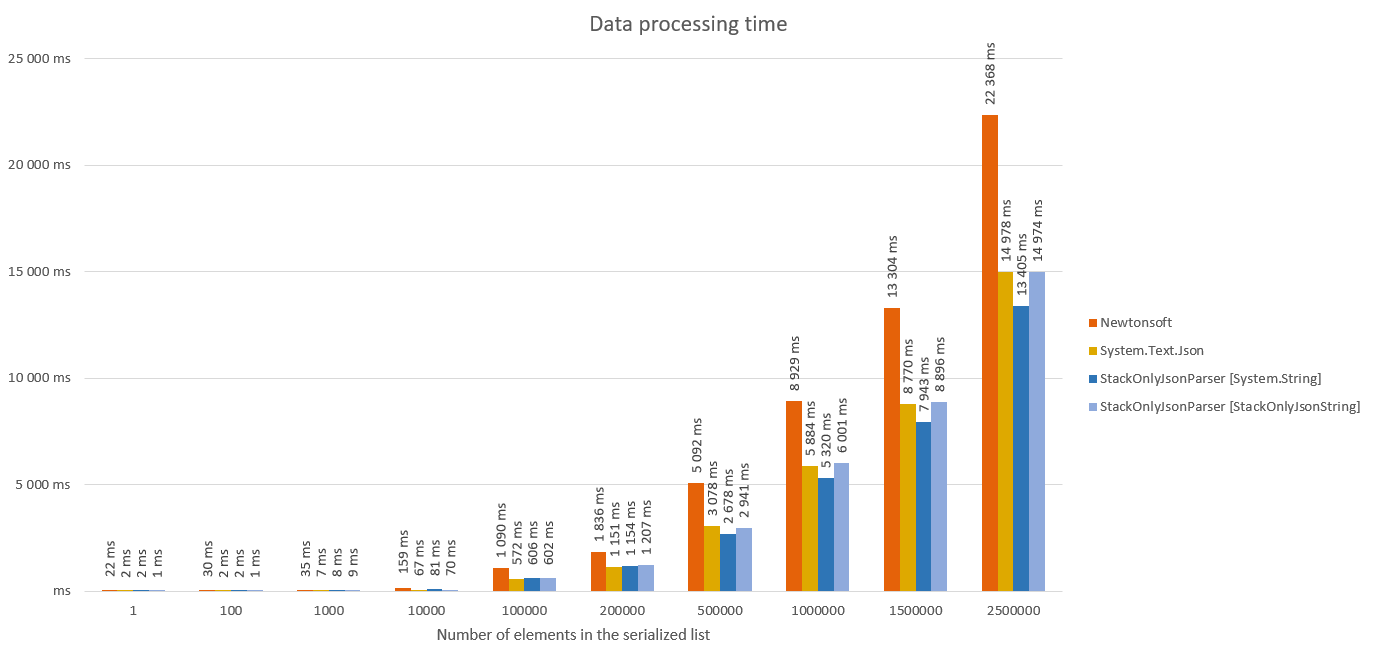
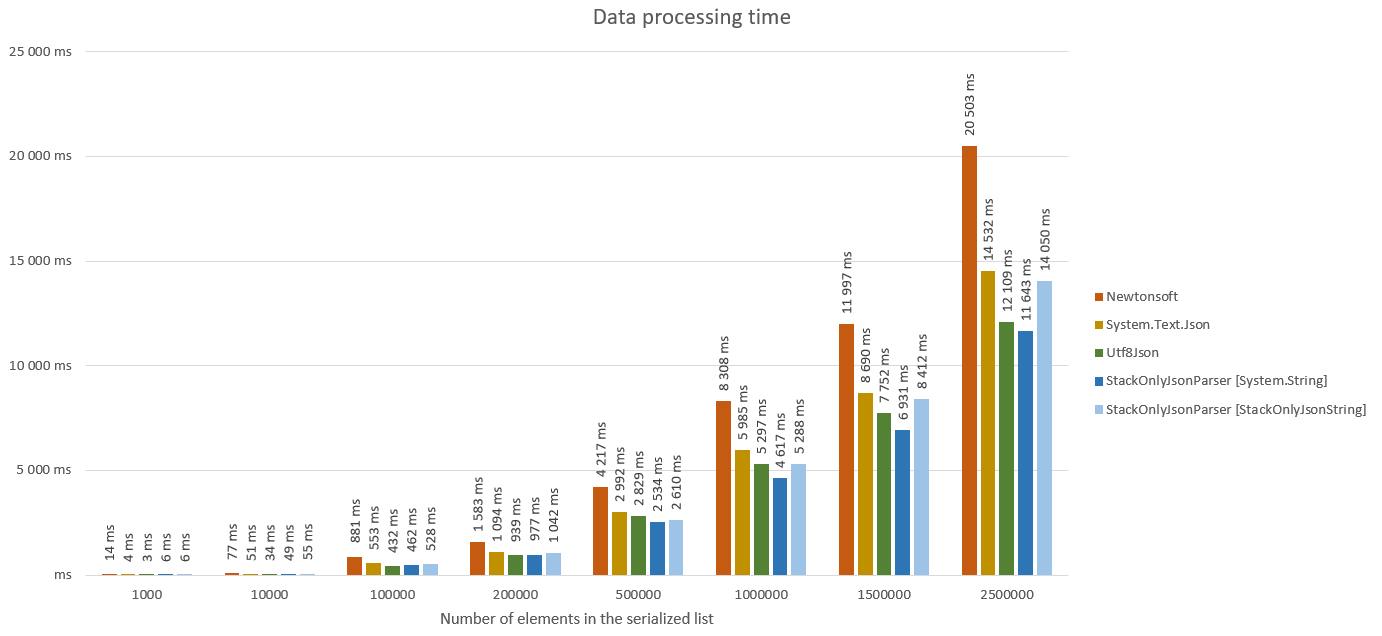
Updating performance test results.

diff --git a/StackOnlyJsonParser.PerformanceTests/Program.cs b/StackOnlyJsonParser.PerformanceTests/Program.cs
@@ -19,7 +19,7 @@ namespace StackOnlyJsonParser.PerformanceTests
 			var data = dataGenerator.Generate(int.Parse(args[1]));
 			var stringData = Encoding.UTF8.GetString(data);
 
-			for (int i = 0; i < 5; i++)
+			for (int i = 0; i < 21; i++)
 			{
 				GC.Collect();
 				var allocatedBytes = GC.GetAllocatedBytesForCurrentThread();
@@ -35,6 +35,9 @@ namespace StackOnlyJsonParser.PerformanceTests
 					case "System.Text.Json":
 						TestHeap2(data);
 						break;
+					case "Utf8Json":
+						TestHeap3(data);
+						break;
 					case "Stack":
 						TestStack(data);
 						break;
@@ -46,7 +49,8 @@ namespace StackOnlyJsonParser.PerformanceTests
 				allocatedBytes = GC.GetAllocatedBytesForCurrentThread() - allocatedBytes;
 				usedBytes = GC.GetTotalMemory(false) - usedBytes;
 
-				Console.WriteLine($"{price}\t{args[0]}\t{args[1]}\t{stopwatch.ElapsedMilliseconds}\t{allocatedBytes}\t{usedBytes}");
+				if (i > 0)
+					Console.WriteLine($"{price}\t{args[0]}\t{args[1]}\t{stopwatch.ElapsedMilliseconds}\t{allocatedBytes}\t{usedBytes}");
 			}
 		}
 
@@ -69,6 +73,21 @@ namespace StackOnlyJsonParser.PerformanceTests
 		{
 			stopwatch.Restart();
 			var products = JsonSerializer.Deserialize<List<HeapProduct>>(data);
+
+			foreach (var product in products)
+				foreach (var color in product.Colors)
+					if (color == "red")
+						foreach (var region in product.Regions)
+							if (region.Key == "PL")
+								price += product.AvailableItems * region.Value.Value;
+
+			stopwatch.Stop();
+		}
+
+		static void TestHeap3(byte[] data)
+		{
+			stopwatch.Restart();
+			var products = Utf8Json.JsonSerializer.Deserialize<List<HeapProduct>>(data);
 
 			foreach (var product in products)
 				foreach (var color in product.Colors)

diff --git a/StackOnlyJsonParser.PerformanceTests/Model/HeapProduct.cs b/StackOnlyJsonParser.PerformanceTests/Model/HeapProduct.cs
@@ -3,7 +3,7 @@ using System.Collections.Generic;
 
 namespace StackOnlyJsonParser.PerformanceTests.Model
 {
-	internal class HeapProduct
+	public class HeapProduct
 	{
 		public string Name { get; set; }
 		public DateTime ProductionDate { get; set; }
@@ -13,14 +13,14 @@ namespace StackOnlyJsonParser.PerformanceTests.Model
 		public Dictionary<string, HeapPrice> Regions { get; set; }
 	}
 
-	internal class HeapSize
+	public class HeapSize
 	{
 		public double Width { get; set; }
 		public double Height { get; set; }
 		public double Depth { get; set; }
 	}
 
-	internal class HeapPrice
+	public class HeapPrice
 	{
 		public string Currency { get; set; }
 		public decimal Value { get; set; }

diff --git a/StackOnlyJsonParser.PerformanceTests/DataGenerator.cs b/StackOnlyJsonParser.PerformanceTests/DataGenerator.cs
@@ -23,9 +23,9 @@ namespace StackOnlyJsonParser.PerformanceTests
 					Name = NextName(),
 					BoxSize = new
 					{
-						Width = _random.NextDouble() * 100,
-						Height = _random.NextDouble() * 100,
-						Depth = _random.NextDouble() * 100,
+						Width = _random.Next(10000) * 0.01,
+						Height = _random.Next(10000) * 0.01,
+						Depth = _random.Next(10000) * 0.01,
 					},
 					AvailableItems = _random.Next(0, 10),
 					Colors = Colors.Where(_ => _random.Next(2) > 0),
